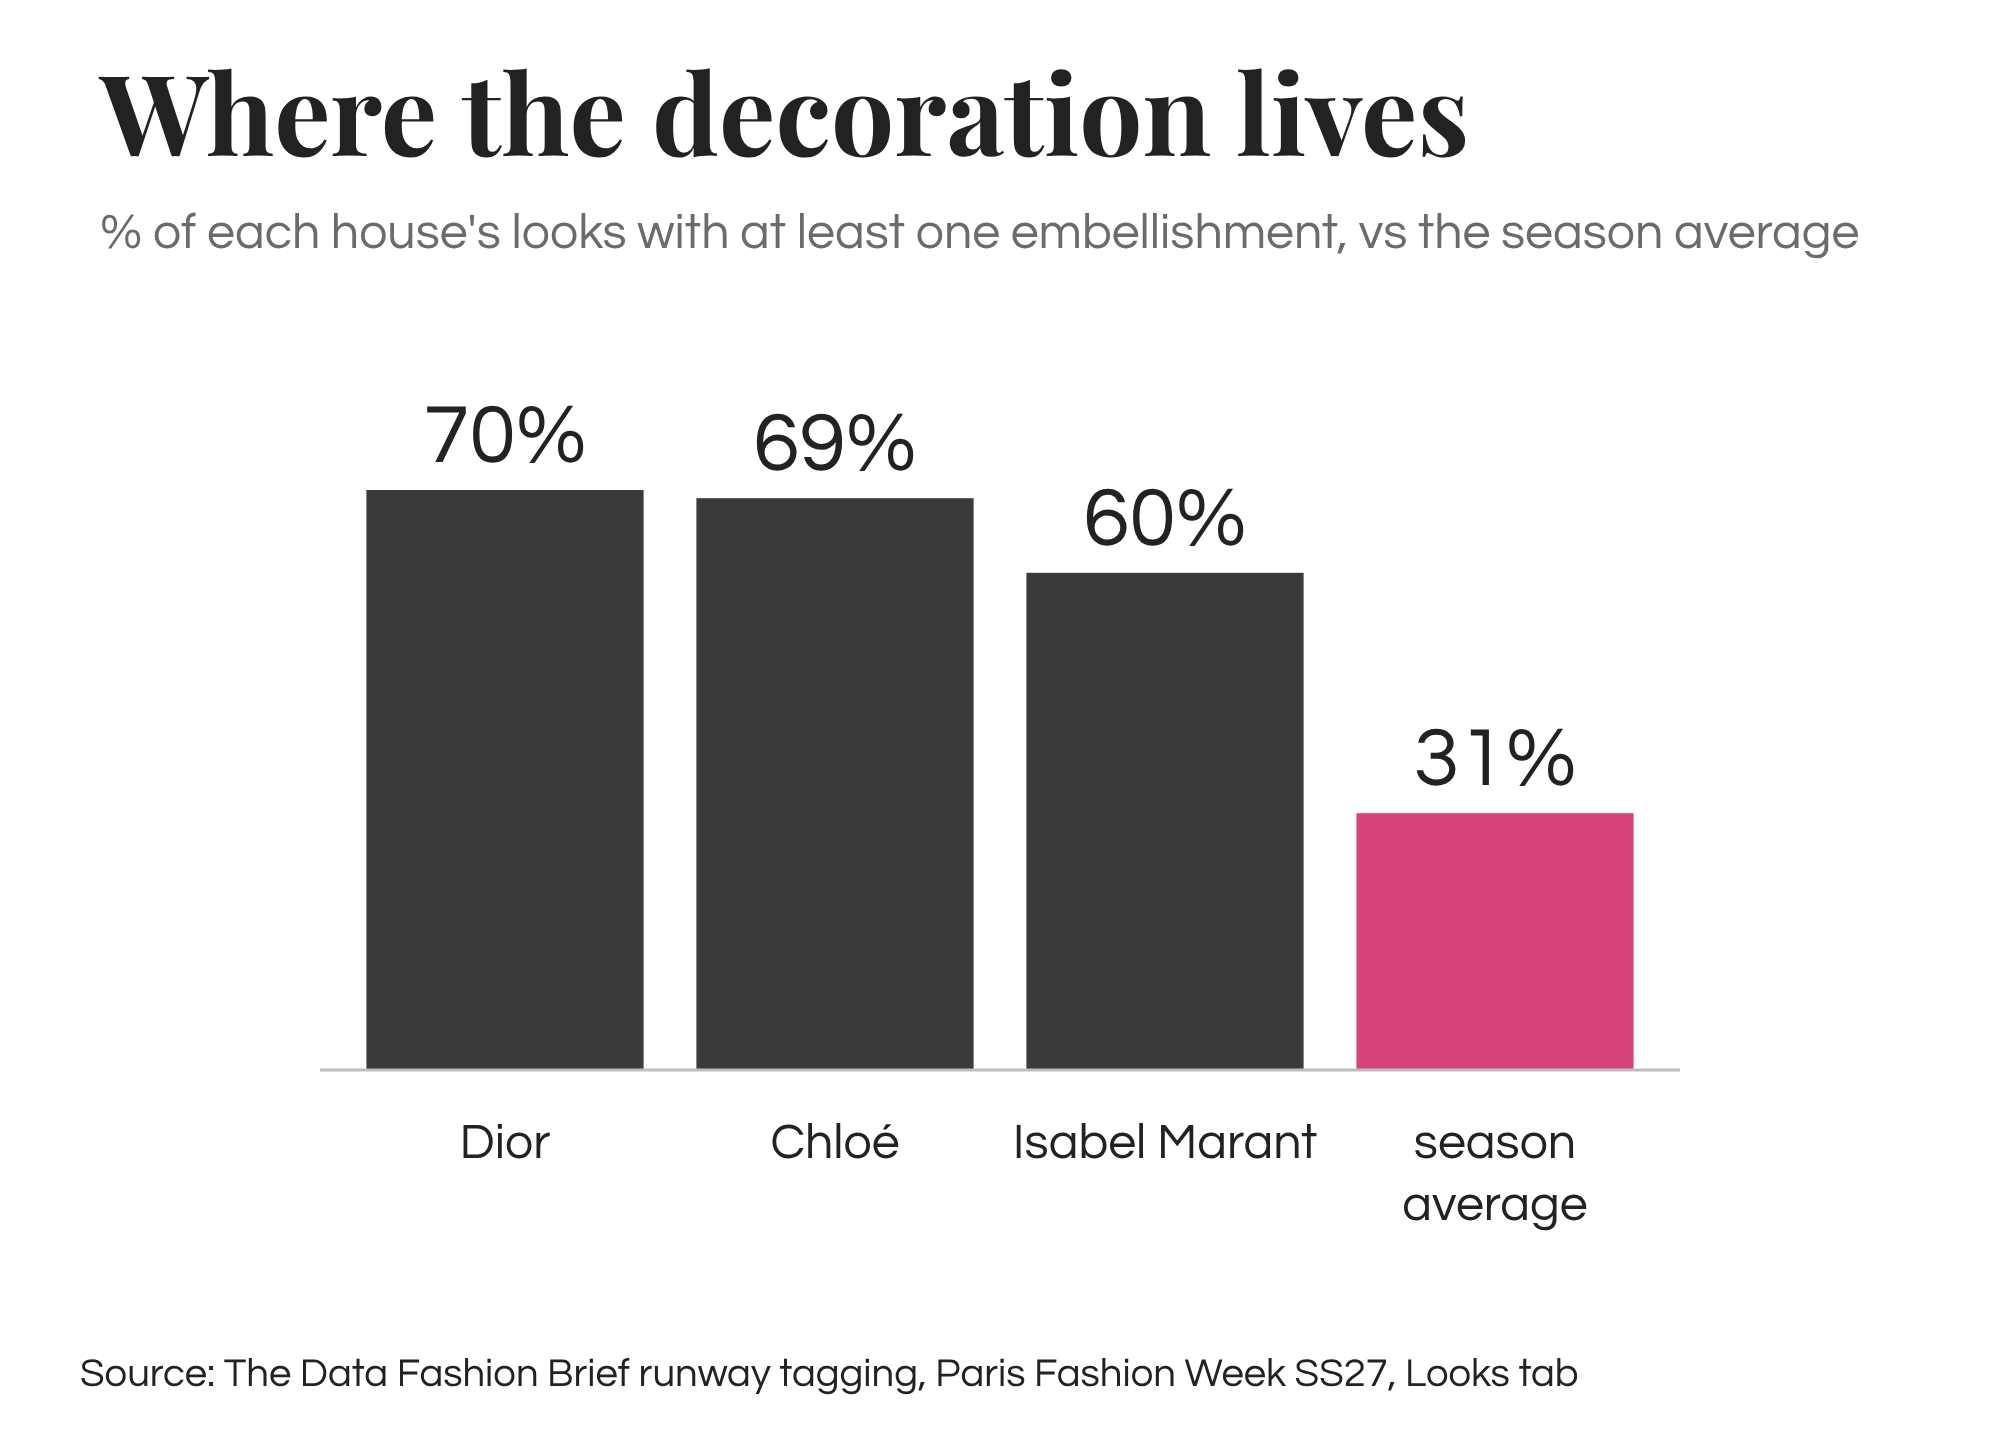
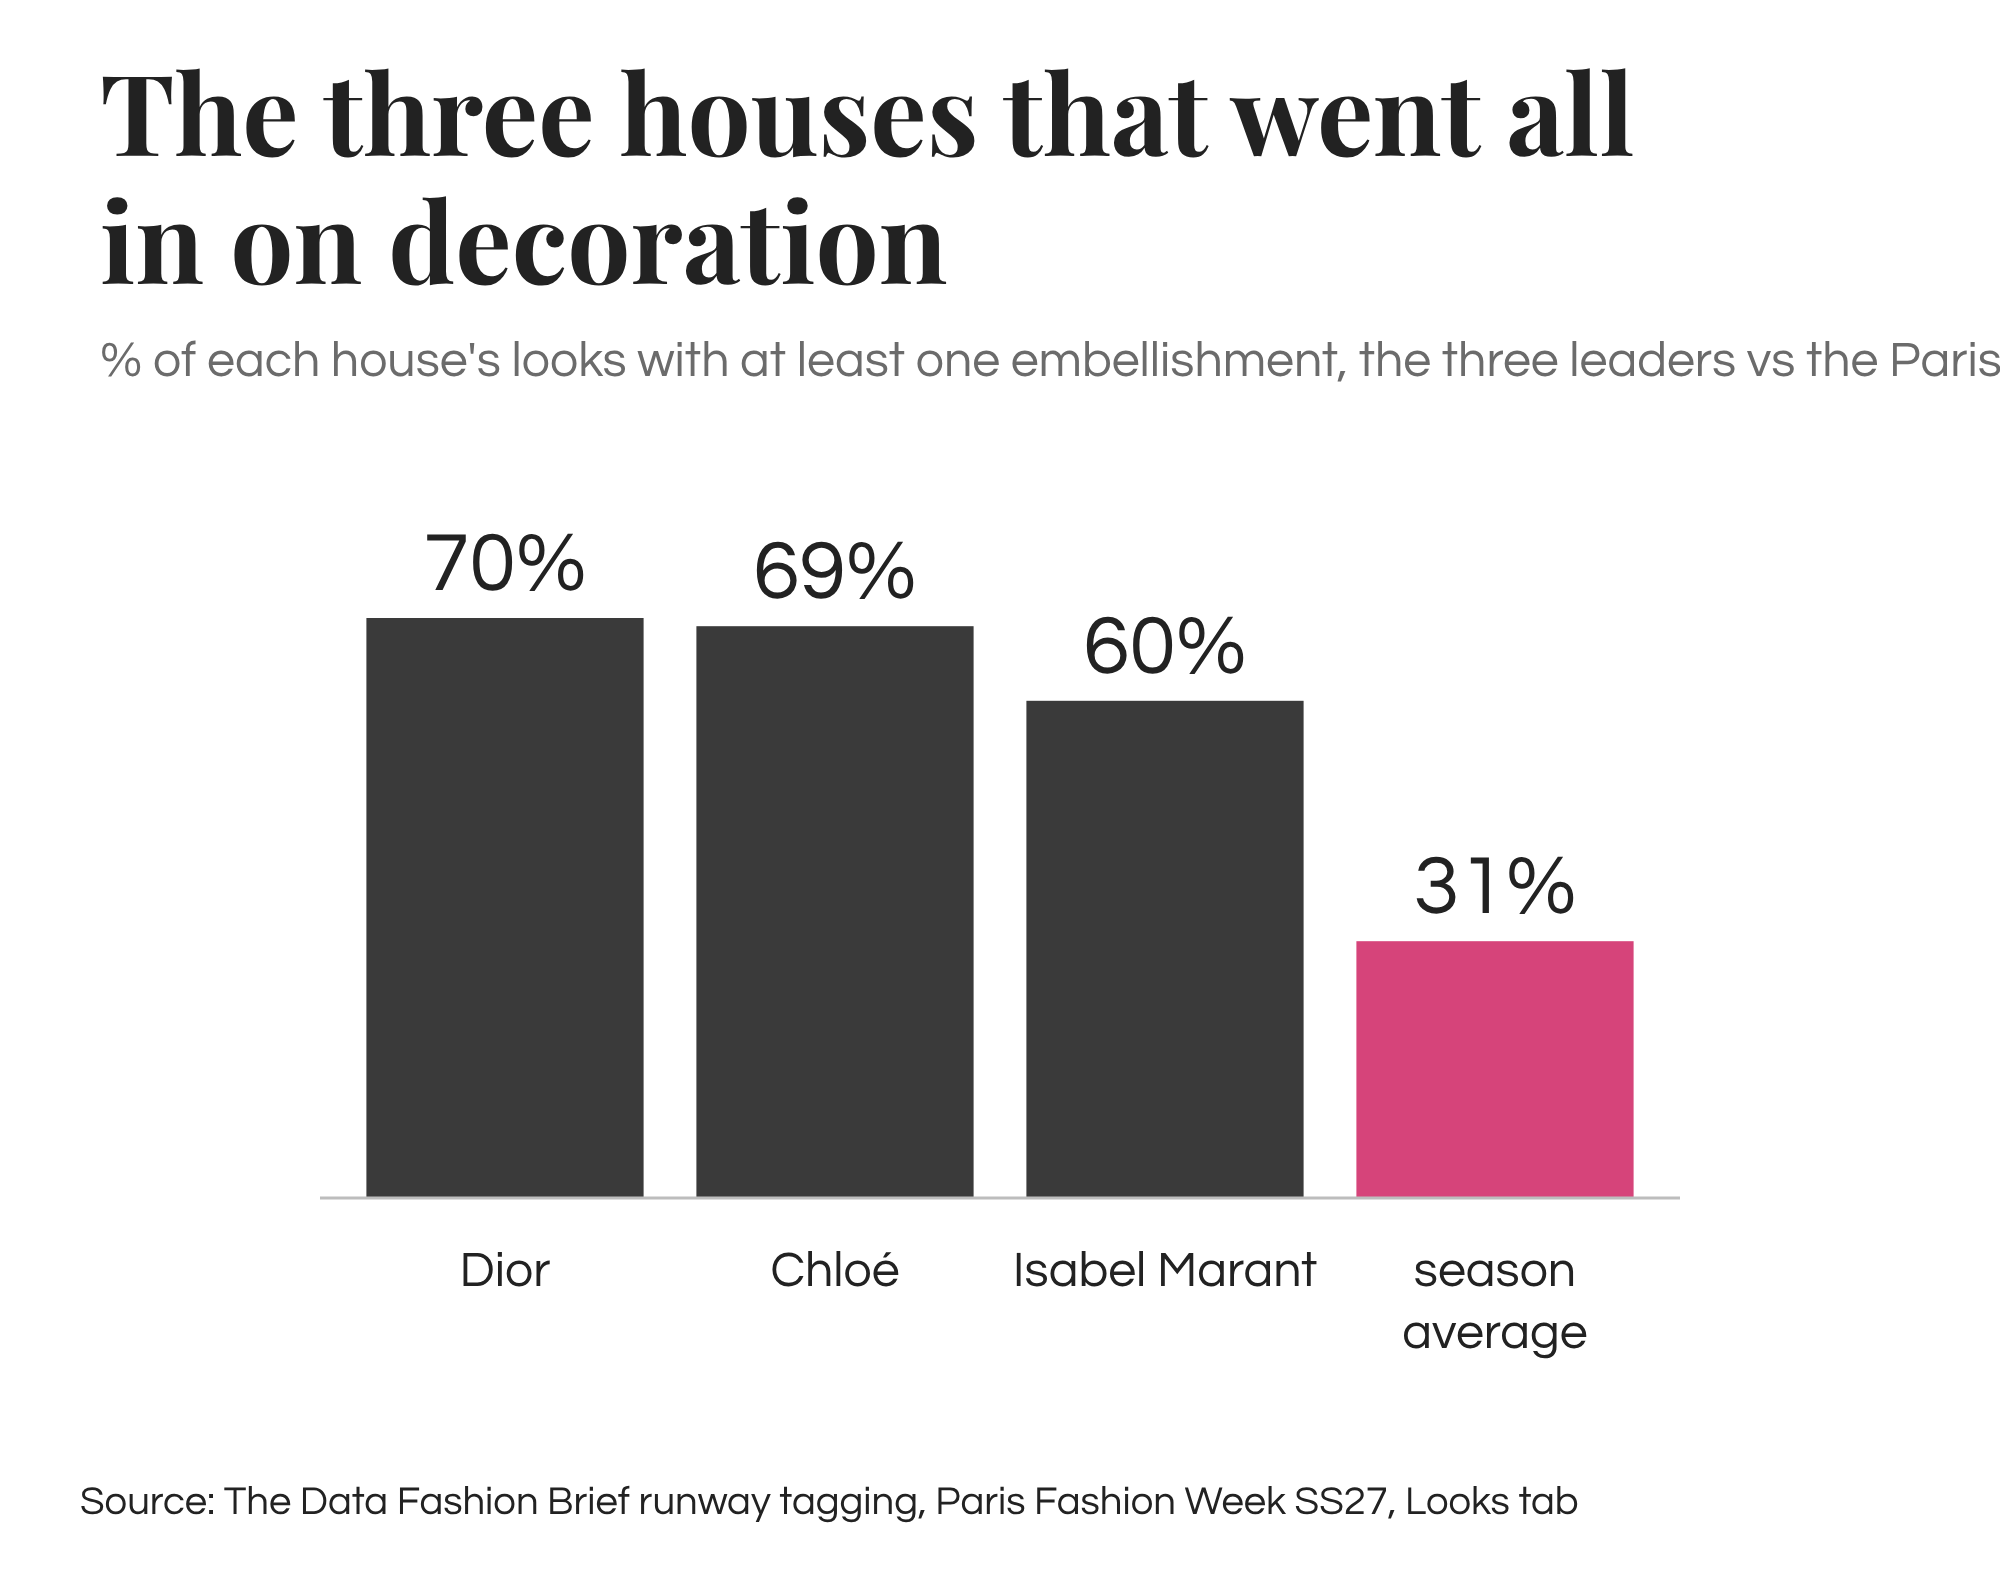
New FW27 ending for the FashionUnited piece after the editor's comments: trickle-down, zeitgeist, concrete takeaway; embellishment chart reframed as the three leaders
Claude-Session: https://claude.ai/code/session_01XDoartUBrdpTf4ap1hSHcT

diff --git a/drafts/fashionunited-maximalism-charts/03-embellishment-by-house.html b/drafts/fashionunited-maximalism-charts/03-embellishment-by-house.html
@@ -1,20 +1,21 @@
-<!doctype html><html><head><meta charset="utf-8"><link href="https://fonts.googleapis.com/css2?family=Playfair+Display:ital,wght@0,500;0,700;1,500&family=Questrial&display=swap" rel="stylesheet"><style>body{margin:0;background:#fff}</style></head><body><svg xmlns="http://www.w3.org/2000/svg" viewBox="0 0 1000 723" width="1000" height="723">
-<rect width="1000" height="723" fill="#FFFFFF"/>
-<text x="50" y="78" font-family="'Playfair Display', Georgia, serif" font-weight="700" font-size="56" fill="#222222">Where the decoration lives</text>
-<text x="50" y="124" font-family="'Century Gothic', 'Questrial', 'Avenir', sans-serif" font-size="25" fill="#6B6B6B">% of each house&#x27;s looks with at least one embellishment, vs the season average</text>
-<rect x="183.2" y="245.0" width="138.6" height="290.0" fill="#3A3A3A"/>
-<text x="252.5" y="231.0" text-anchor="middle" font-family="'Century Gothic', 'Questrial', 'Avenir', sans-serif" font-size="42" fill="#222222">70%</text>
-<text x="252.5" y="579.0" text-anchor="middle" font-family="'Century Gothic', 'Questrial', 'Avenir', sans-serif" font-size="25" fill="#222222">Dior</text>
-<rect x="348.2" y="249.1" width="138.6" height="285.9" fill="#3A3A3A"/>
-<text x="417.5" y="235.1" text-anchor="middle" font-family="'Century Gothic', 'Questrial', 'Avenir', sans-serif" font-size="42" fill="#222222">69%</text>
-<text x="417.5" y="579.0" text-anchor="middle" font-family="'Century Gothic', 'Questrial', 'Avenir', sans-serif" font-size="25" fill="#222222">Chloé</text>
-<rect x="513.2" y="286.4" width="138.6" height="248.6" fill="#3A3A3A"/>
-<text x="582.5" y="272.4" text-anchor="middle" font-family="'Century Gothic', 'Questrial', 'Avenir', sans-serif" font-size="42" fill="#222222">60%</text>
-<text x="582.5" y="579.0" text-anchor="middle" font-family="'Century Gothic', 'Questrial', 'Avenir', sans-serif" font-size="25" fill="#222222">Isabel Marant</text>
-<rect x="678.2" y="406.6" width="138.6" height="128.4" fill="#D6447A"/>
-<text x="747.5" y="392.6" text-anchor="middle" font-family="'Century Gothic', 'Questrial', 'Avenir', sans-serif" font-size="42" fill="#222222">31%</text>
-<text x="747.5" y="579.0" text-anchor="middle" font-family="'Century Gothic', 'Questrial', 'Avenir', sans-serif" font-size="25" fill="#222222">season</text>
-<text x="747.5" y="610.0" text-anchor="middle" font-family="'Century Gothic', 'Questrial', 'Avenir', sans-serif" font-size="25" fill="#222222">average</text>
-<line x1="160.0" y1="535.0" x2="840.0" y2="535.0" stroke="#BDBDBD" stroke-width="1.5"/>
-<text x="40" y="693" font-family="'Century Gothic', 'Questrial', 'Avenir', sans-serif" font-size="20" fill="#222222">Source: The Data Fashion Brief runway tagging, Paris Fashion Week SS27, Looks tab</text>
+<!doctype html><html><head><meta charset="utf-8"><link href="https://fonts.googleapis.com/css2?family=Playfair+Display:ital,wght@0,500;0,700;1,500&family=Questrial&display=swap" rel="stylesheet"><style>body{margin:0;background:#fff}</style></head><body><svg xmlns="http://www.w3.org/2000/svg" viewBox="0 0 1000 787" width="1000" height="787">
+<rect width="1000" height="787" fill="#FFFFFF"/>
+<text x="50" y="78" font-family="'Playfair Display', Georgia, serif" font-weight="700" font-size="56" fill="#222222">The three houses that went all</text>
+<text x="50" y="142" font-family="'Playfair Display', Georgia, serif" font-weight="700" font-size="56" fill="#222222">in on decoration</text>
+<text x="50" y="188" font-family="'Century Gothic', 'Questrial', 'Avenir', sans-serif" font-size="25" fill="#6B6B6B">% of each house&#x27;s looks with at least one embellishment, the three leaders vs the Paris average</text>
+<rect x="183.2" y="309.0" width="138.6" height="290.0" fill="#3A3A3A"/>
+<text x="252.5" y="295.0" text-anchor="middle" font-family="'Century Gothic', 'Questrial', 'Avenir', sans-serif" font-size="42" fill="#222222">70%</text>
+<text x="252.5" y="643.0" text-anchor="middle" font-family="'Century Gothic', 'Questrial', 'Avenir', sans-serif" font-size="25" fill="#222222">Dior</text>
+<rect x="348.2" y="313.1" width="138.6" height="285.9" fill="#3A3A3A"/>
+<text x="417.5" y="299.1" text-anchor="middle" font-family="'Century Gothic', 'Questrial', 'Avenir', sans-serif" font-size="42" fill="#222222">69%</text>
+<text x="417.5" y="643.0" text-anchor="middle" font-family="'Century Gothic', 'Questrial', 'Avenir', sans-serif" font-size="25" fill="#222222">Chloé</text>
+<rect x="513.2" y="350.4" width="138.6" height="248.6" fill="#3A3A3A"/>
+<text x="582.5" y="336.4" text-anchor="middle" font-family="'Century Gothic', 'Questrial', 'Avenir', sans-serif" font-size="42" fill="#222222">60%</text>
+<text x="582.5" y="643.0" text-anchor="middle" font-family="'Century Gothic', 'Questrial', 'Avenir', sans-serif" font-size="25" fill="#222222">Isabel Marant</text>
+<rect x="678.2" y="470.6" width="138.6" height="128.4" fill="#D6447A"/>
+<text x="747.5" y="456.6" text-anchor="middle" font-family="'Century Gothic', 'Questrial', 'Avenir', sans-serif" font-size="42" fill="#222222">31%</text>
+<text x="747.5" y="643.0" text-anchor="middle" font-family="'Century Gothic', 'Questrial', 'Avenir', sans-serif" font-size="25" fill="#222222">season</text>
+<text x="747.5" y="674.0" text-anchor="middle" font-family="'Century Gothic', 'Questrial', 'Avenir', sans-serif" font-size="25" fill="#222222">average</text>
+<line x1="160.0" y1="599.0" x2="840.0" y2="599.0" stroke="#BDBDBD" stroke-width="1.5"/>
+<text x="40" y="757" font-family="'Century Gothic', 'Questrial', 'Avenir', sans-serif" font-size="20" fill="#222222">Source: The Data Fashion Brief runway tagging, Paris Fashion Week SS27, Looks tab</text>
 </svg></body></html>

diff --git a/drafts/fashionunited-maximalism-charts/build_charts.py b/drafts/fashionunited-maximalism-charts/build_charts.py
@@ -42,8 +42,8 @@ charts.append(bar_chart('02-pink-by-house', 'Where the pink actually lives',
 # 3. Embellished share of each house's looks. PROVISIONAL: only the three leaders and the
 #    season average are in the notes, the other 13 houses come from the Looks tab.
 emb = [('Dior', 70), ('Chloé', 69), ('Isabel Marant', 60), ('season average', 31)]
-charts.append(bar_chart('03-embellishment-by-house', 'Where the decoration lives',
-    "% of each house's looks with at least one embellishment, vs the season average",
+charts.append(bar_chart('03-embellishment-by-house', 'The three houses that went all in on decoration',
+    "% of each house's looks with at least one embellishment, the three leaders vs the Paris average",
     emb, PARIS_SRC + ', Looks tab', highlight=(len(emb) - 1,)))
 
 # 4. Paris season palette, ranked (colour index season numbers, rounded slices)

diff --git a/drafts/fashionunited-maximalism-clean.md b/drafts/fashionunited-maximalism-clean.md
@@ -1,4 +1,4 @@
-# FashionUnited: maximalism (version 15, the short piece, about 600 words)
+# FashionUnited: maximalism (version 16, new ending after the editor's 2 November comments)
 
 **Maximalism got bigger, and the data says it carries into Fall/Winter 2027**
 
@@ -14,6 +14,9 @@ Across the 997 Paris looks analysed from 16 shows, 31 percent carried ruffles, f
 
 [Collage 1: Dior, Chloé and Isabel Marant SS27, embellished looks]
 
+[Chart: 03-embellishment-by-house.png, % of each house's looks with at least one embellishment, the three leaders vs the Paris average]
+Credits: The Data Fashion Brief
+
 The loudest version came from Milan, where the Roberto Cavalli collection was reviewed as a burst of fireworks on the runway. The Data Fashion Brief's decode of that show puts animal print at 28 percent of the palette, pink at 16 percent, red at 14 percent and gold at 12 percent, with black down to 6 percent. In Paris, the houses closest to that register were Dries Van Noten, 22 percent neutral with graphic and floral print as its two biggest slices, and Balmain, 34 percent neutral with animal print as its single largest slice.
 
 [Collage 2: Roberto Cavalli, Dries Van Noten and Balmain SS27, prints]
@@ -24,6 +27,9 @@ The loudest version came from Milan, where the Roberto Cavalli collection was re
 
 The customer has changed what luxury is for. The State of Fashion: Face to Face With Luxury Clients, a survey of more than 2,000 luxury clients in the United States and China published in June by The Business of Fashion and McKinsey, found the appeal of luxury shifting from status and visibility towards identity and self-expression, and the same report series finds that 81 percent of luxury customers under 35 buy first for design and creativity. Retail and search agree: Lectra's assortment tracking across European brands for summer 2026 recorded sequins up 40 percent and fringe up 34 percent year on year, and The Data Fashion Brief's analysis of Google Trends shows worldwide searches for "chunky belt" up 93 percent on a year earlier and "80s luxury", shorthand for bigger shoulders and chunkier gold jewellery, up more than 400 percent on a small base.
 
+[Chart: 10-loud-terms-year-on-year.png, % change in average weekly search interest in "80s luxury" and "chunky belt", past year vs preceding year]
+Credits: The Data Fashion Brief
+
 **Accessories carry the loudest part**
 
 Buyers surveyed by WWD after the spring shows named the belt the season's key statement piece, oversized at Celine and worn three at a time at Gucci, with chunky jewellery and maxi sunglasses close behind. The sunglasses were the most visible of the three. Celine showed its signature oversized oval frames without rims, alongside bright yellow lenses and very large bug-eye shapes, Miu Miu sent out bug-eye frames crossed with a cat-eye in a parade of colours, and Balmain put sunglasses on most of its models. Shoppers have followed: according to The Data Fashion Brief's analysis of Google Trends, worldwide searches for Celine's round sunglasses are up 190 percent on a year earlier.
@@ -32,11 +38,15 @@ Buyers surveyed by WWD after the spring shows named the belt the season's key st
 
 **What carries into Fall/Winter 2027**
 
-Decoration carries, bright colour does not. Première Vision Paris, the fabric fair for Autumn/Winter 2027/28 held in September, built the season on texture and visible craft, with metallic-thread tweeds, sequin-embroidered laces and a palette of deep purples, bordeaux and mineral neutrals in place of this summer's brights. Heuritech reports fringe detailing up 17 percent year on year in July 2026 with a further rise forecast for spring 2027, and expects adoption of large sequins to grow 23 percent over the next two years. Trendalytics frames its Fall/Winter 2027 womenswear forecast around clashing prints, fringe and tactile textures as a reaction against corporate minimalism and AI-generated imagery.
+Decoration carries, bright colour does not. Première Vision Paris, the fabric fair for Autumn/Winter 2027/28 held in September, built the season on texture and visible craft, with metallic-thread tweeds, sequin-embroidered laces and a palette of deep purples, bordeaux and mineral neutrals in place of this summer's brights, an appetite for depth of colour rather than brightness. The forecasters point the same way: Heuritech reports fringe detailing up 17 percent year on year in July 2026 with a further rise forecast for spring 2027 and expects adoption of large sequins to grow 23 percent over the next two years, and Trendalytics frames its Fall/Winter 2027 womenswear forecast around clashing prints, fringe and tactile textures as a reaction against corporate minimalism and AI-generated imagery. What the runway shows now reaches the high street and the wardrobe over the following seasons, so the Spring/Summer 2027 decoration is the version shoppers meet in stores next spring, and the Fall/Winter 2027 fabrics are the version after that. The timing says something about the moment too: luxury prices rose 61 percent between 2019 and 2025 according to the same State of Fashion research, most fashion executives surveyed for it expected 2026 to be harder than 2025, and the retail analysts read the rise in sequins and fringe as a demand for escapism. Decoration that shows its work is what a wary customer is willing to pay for.
 
 [Collage 4: SS27 looks that point to FW27, fringe, sequins on tweed and lace, deep colour]
 
-So the pink, embellished, bug-eyed Spring/Summer 2027 version hands over to a heavier one, fringe, fur-effect volume, sequins worked into tweed and lace, and a darker palette, with accessories still doing the work. For the industry, the Spring/Summer 2027 stock arriving in stores early next year will show whether shoppers take to the embellishment and the statement accessories, and the Fall/Winter 2027 season, which opens with the January trade fairs, is where the trend moves from bright colour into fringe, sequins and texture. One season of runway data is a signal, but it is consistent across the runway, retail, search and now the fabric fairs, and the first test comes at the January trade fairs.
+So the pink, embellished, bug-eyed Spring/Summer 2027 version hands over to a heavier one, fringe, fur-effect volume, sequins worked into tweed and lace, and a darker palette, with accessories still doing the work.
+
+**The takeaway for Fall/Winter 2027**
+
+This is not a trend for every brand or every customer, and the Paris data is clear about that: the 16 houses split into a bold camp led by Dries Van Noten and Balmain, a basic camp led by Lanvin and Celine, and a majority that put decoration on an otherwise plain base. For most brands and retailers that middle route is the realistic one, a plain core with a decorated layer and statement accessories on top, rather than a wholesale change of direction. The pieces to expect most from in Fall/Winter 2027 are the ones the fairs, the forecasters and the search data agree on: fringe, on hems and bags as much as on dresses, large sequins worked into tweed, knit and lace rather than all-over eveningwear, the oversized belt and chunky gold jewellery that carried the eighties revival this year, and the oversized or bug-eye sunglass that was the most searched accessory of the season, all in bordeaux, purple and deep neutrals rather than this summer's pink. One season of runway data is a signal, but it is consistent across the runway, retail, search and now the fabric fairs, and the first test comes at the January trade fairs.
 
 ---
 
